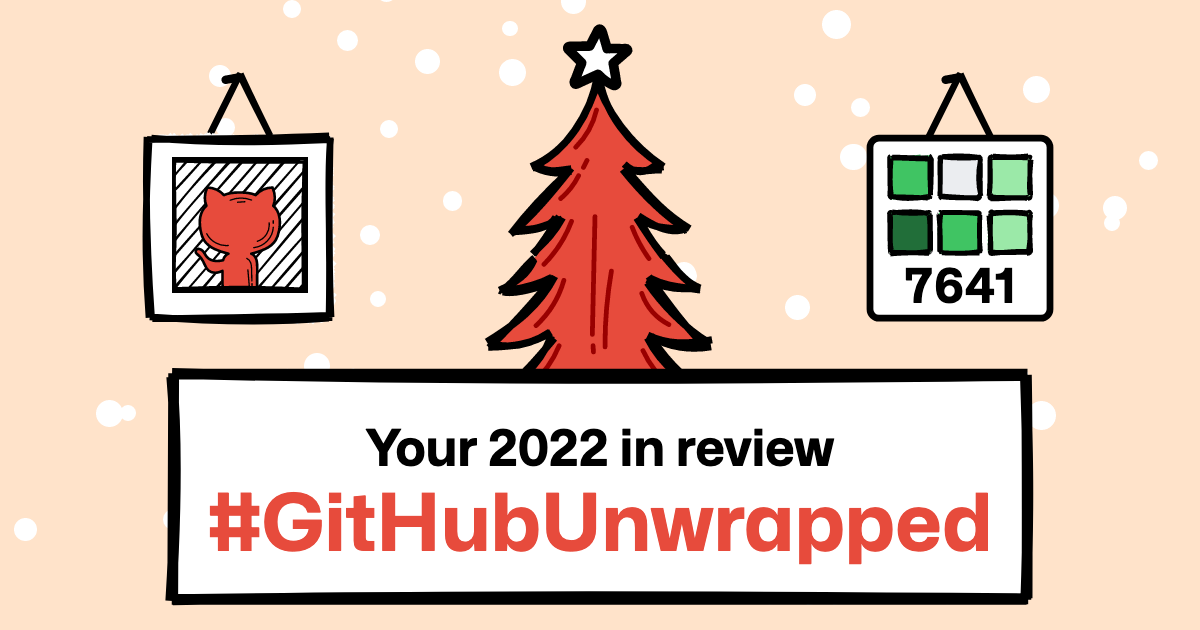
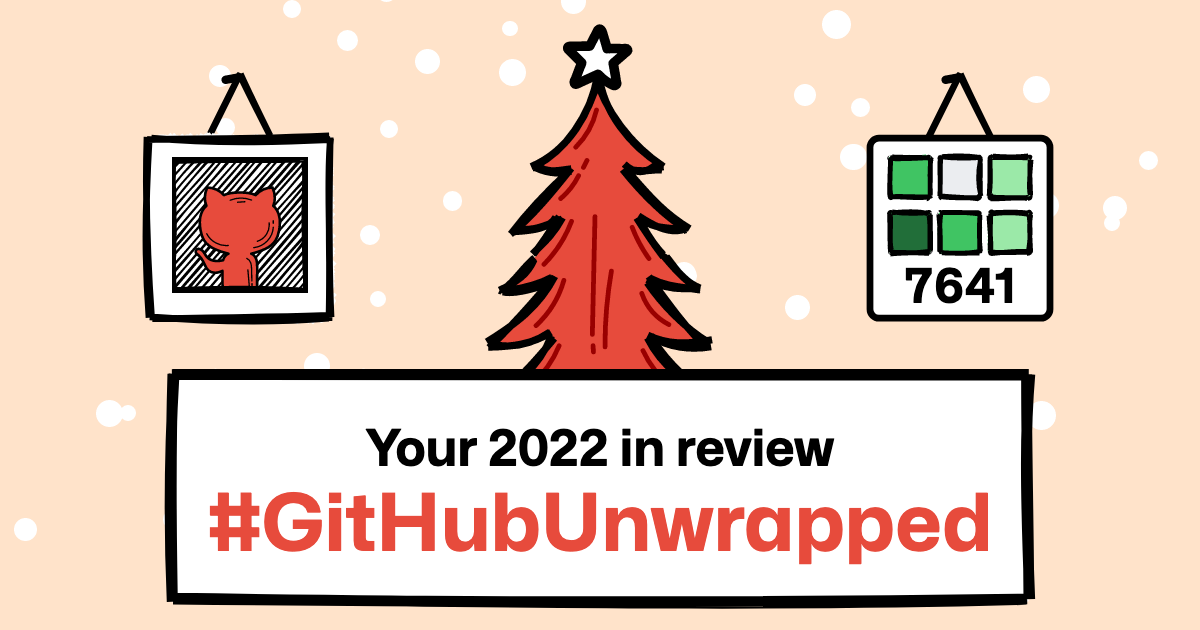
new flash card

diff --git a/src/components/Grill.tsx b/src/components/Grill.tsx
@@ -10,7 +10,7 @@ export const Grill: React.FC = () => {
 			fill: 'black',
 			seed: 3,
 			maxRandomnessOffset: 4,
-			hachureGap: 8,
+			hachureGap: 4,
 			strokeWidth: 3,
 			bowing: 1,
 		});
